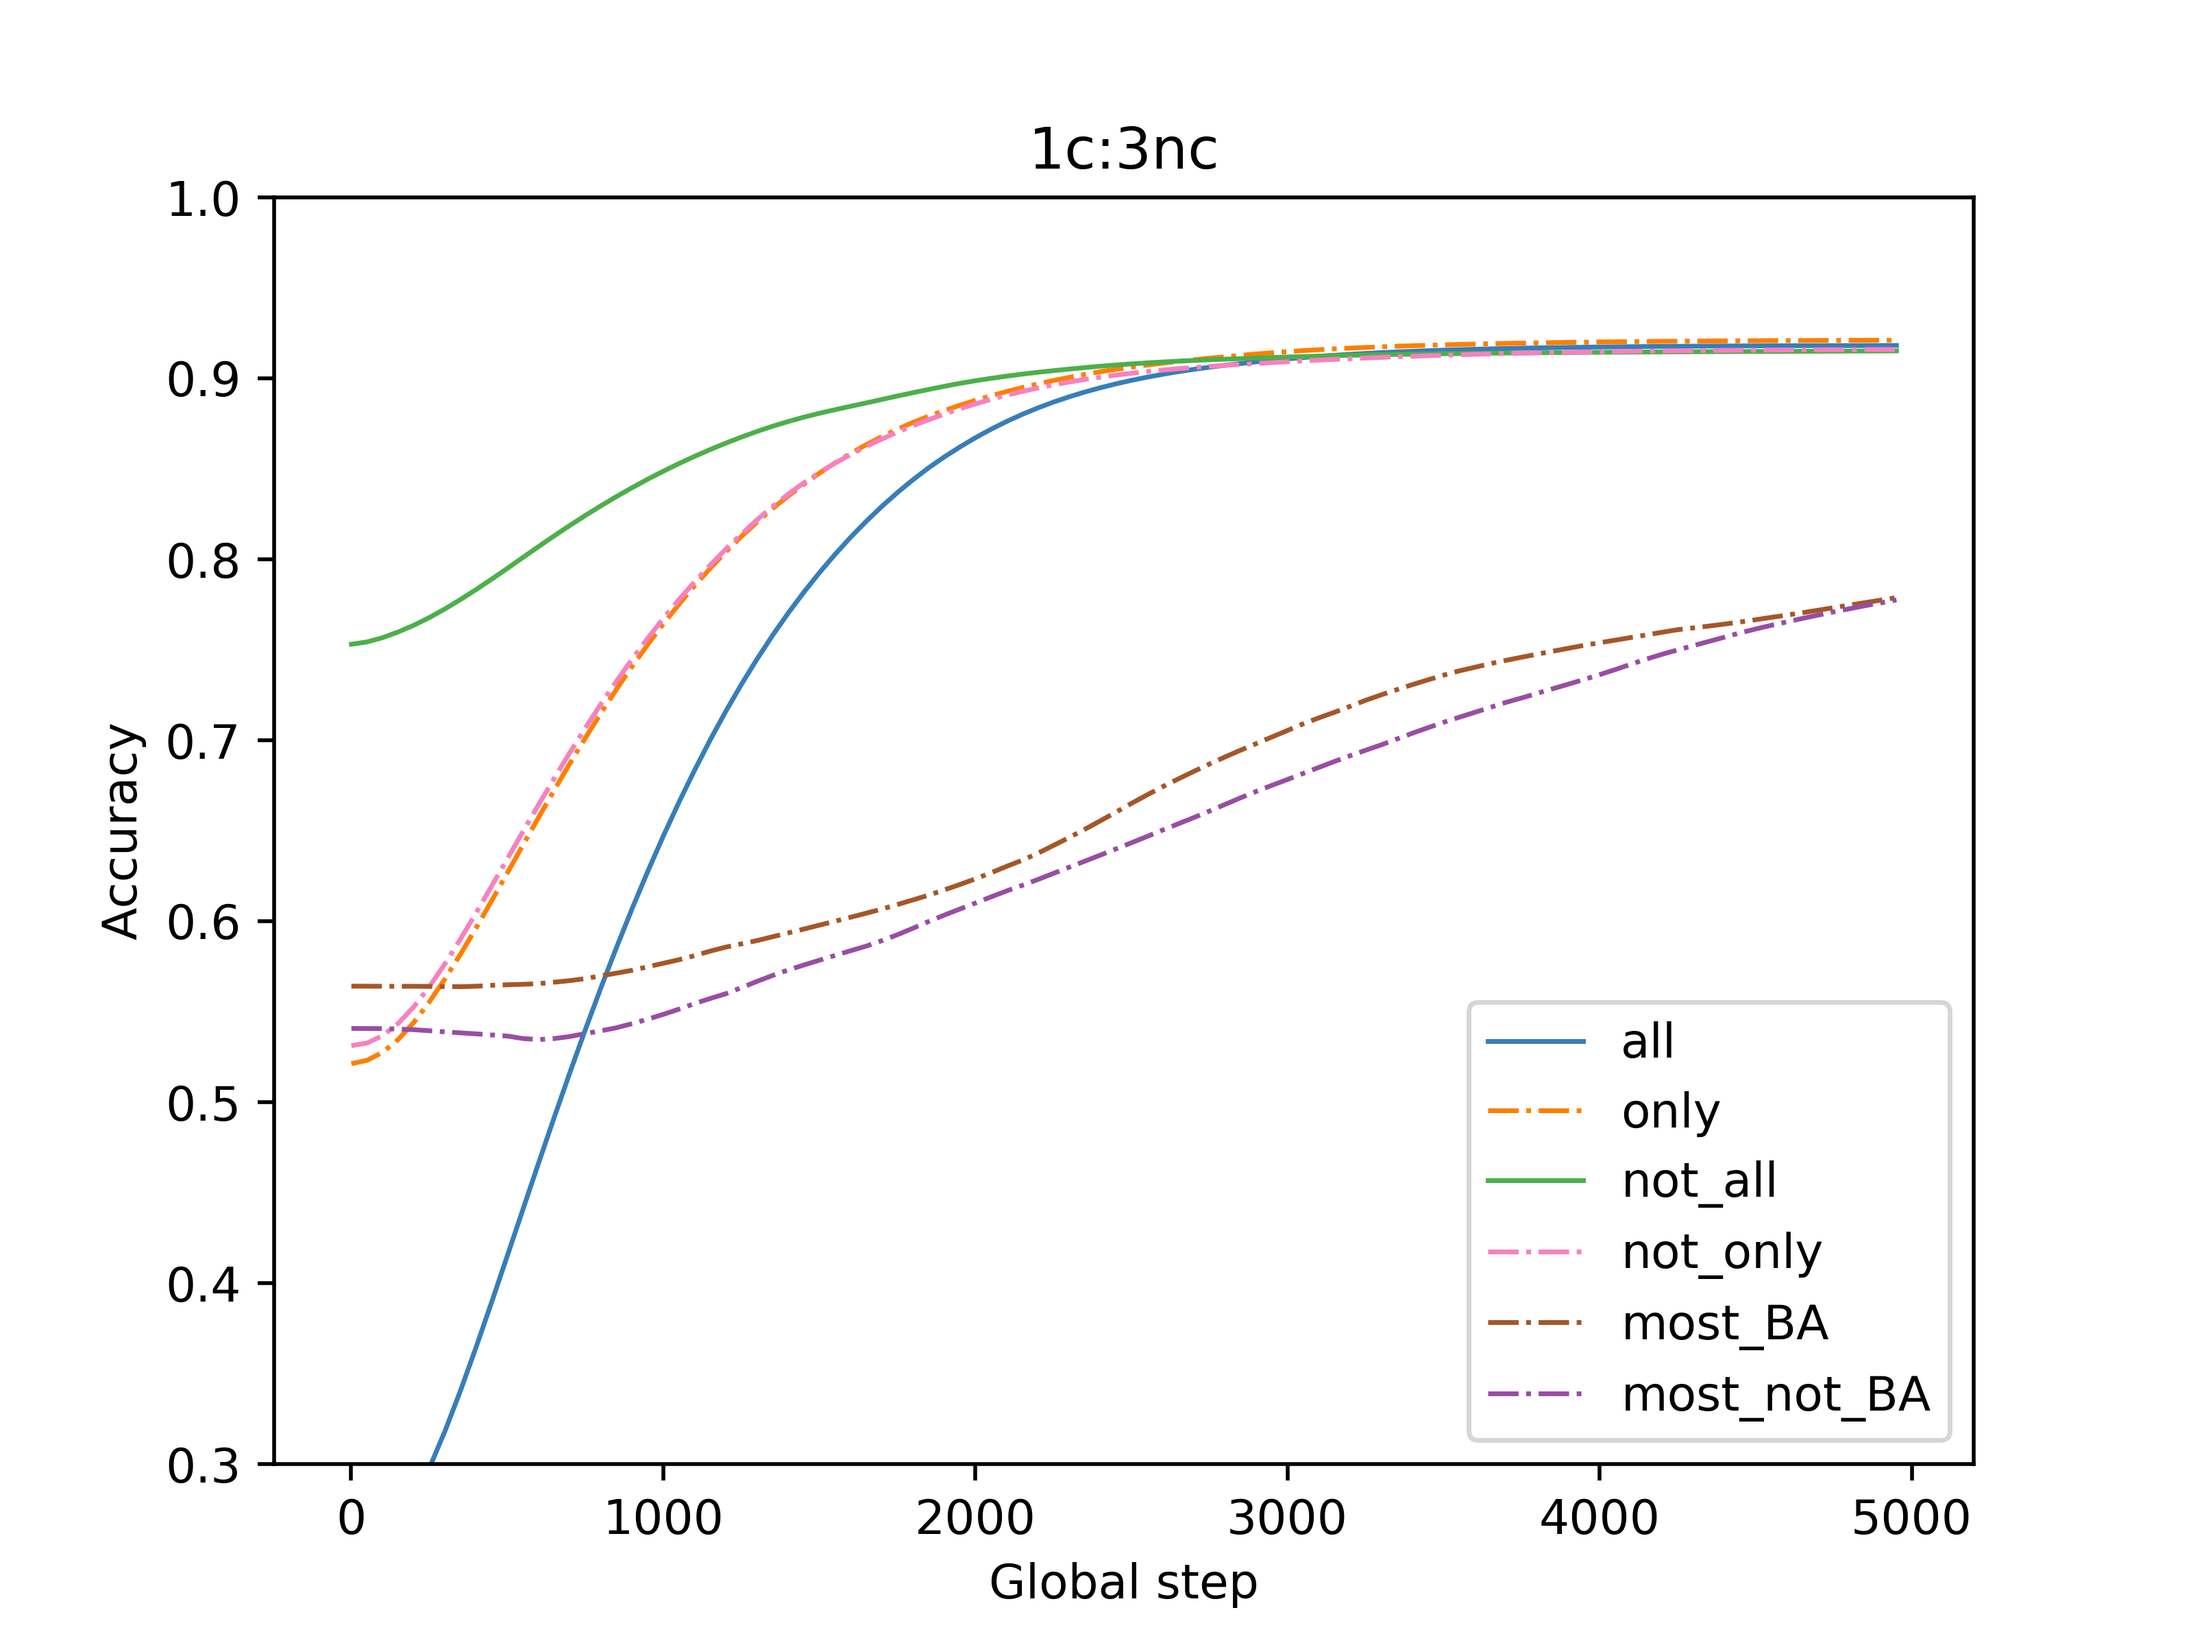
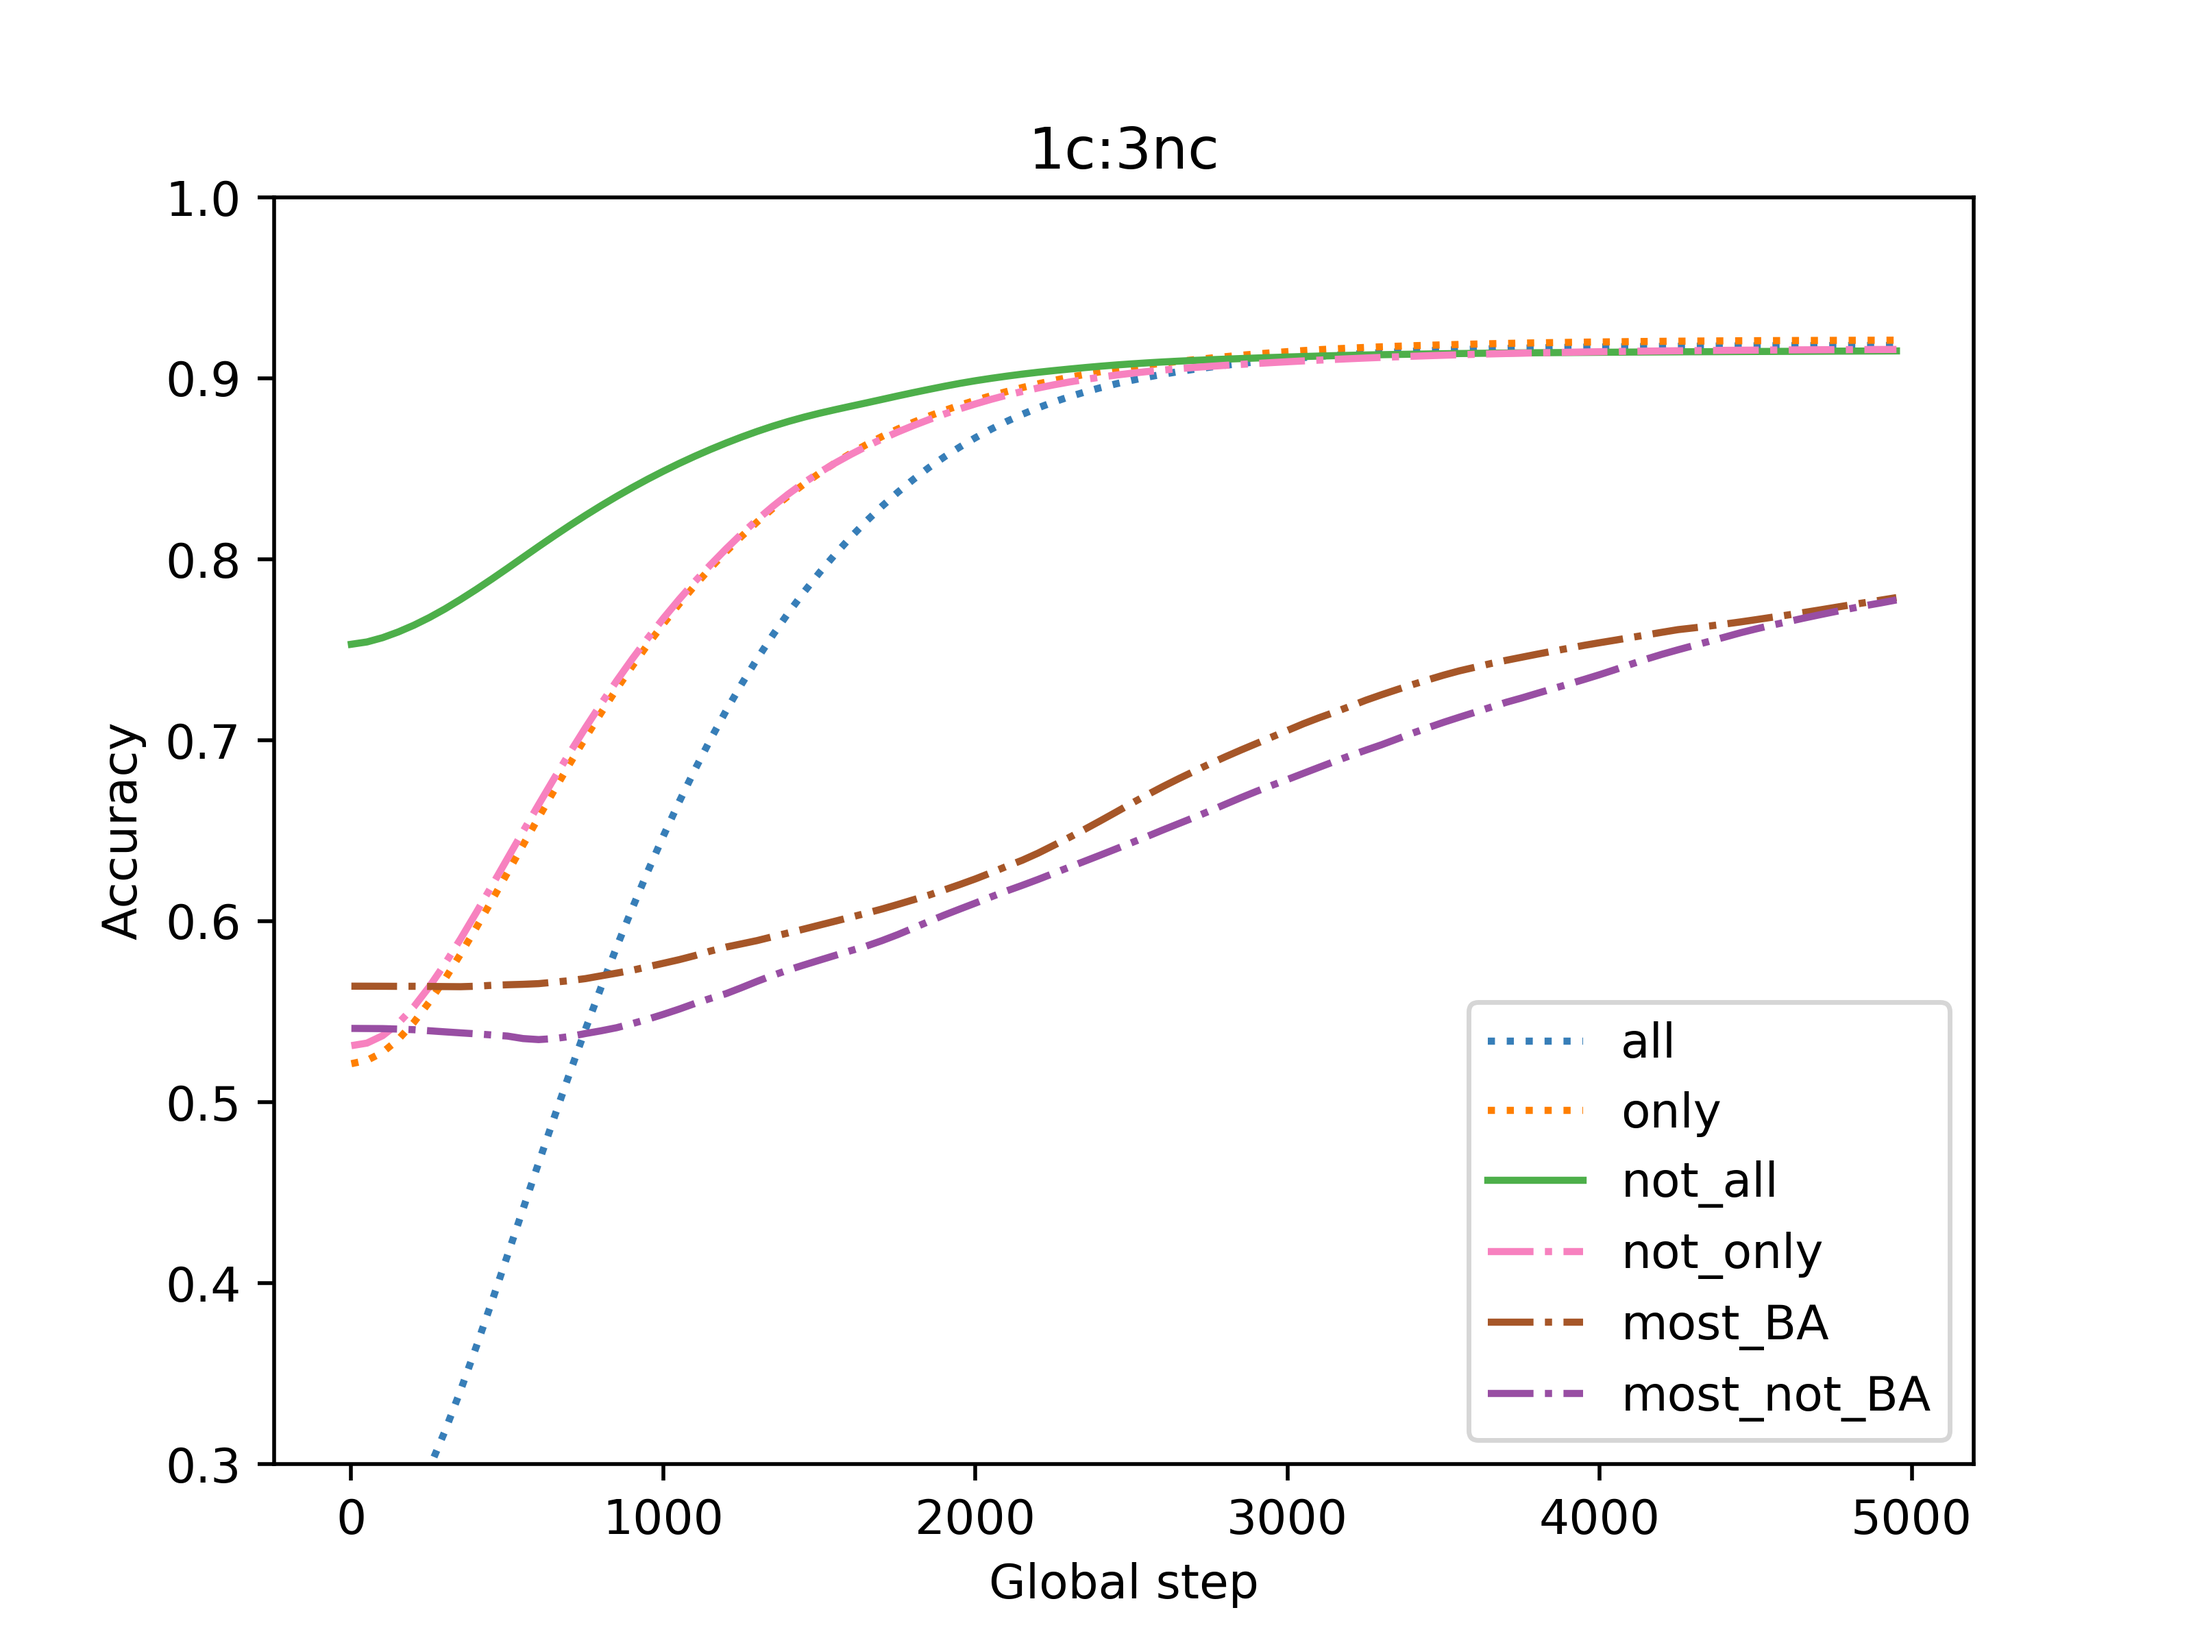
new plots

diff --git a/analysis.py b/analysis.py
@@ -32,19 +32,22 @@ quants_c = ["all", "not_all", "most_AB", "most_not_AB", "exactly_half_AB"]
 # Non-conservative quantifiers
 quants_nc = ["only", "not_only", "most_BA", "most_not_BA", "exactly_half_BA"]
 
+# Test quantifiers
+quants_test = ["all", "only"]
+
 
 def experiment_analysis(path, quants, path_tosave, title, trials=range(30), plots=True):
-    print("Analyzing the experiments!")
     """Prints statistical tests and makes plots for experiment one.
 
     Args:
         path: where the trials in CSV are
         plots: whether to make plots or not
     """
+    print(path.split("/")[-1], path.split("/")[1])
 
     # read the data in
     data = util.read_trials_from_csv(path, trials)
-    print("Data read!")
+    # print("Data read!")
     # FILTER OUT TRIALS WHERE RNN DID NOT LEARN
     remove_bad_trials(data)
     # get convergence points per quantifier
@@ -58,46 +61,47 @@ def experiment_analysis(path, quants, path_tosave, title, trials=range(30), plot
 
     print(stats.ttest_rel(convergence_points[quants[0]],
                           convergence_points[quants[1]]))
+    print()
 
 
 def experiment_one_a_10k_analysis():
-    experiment_analysis("results/10k/exp-1-a", ["all", "only", "not_all", "most_AB", "most_not_AB", "exactly_half_AB"], "./plots_training/10k/4c_0nc_10k.png", "4c:0nc")
+    experiment_analysis("results/10k/exp-1-a", ["all", "only", "not_all", "most_AB", "most_not_AB", "exactly_half_AB"], "plots_training/10k/4c_0nc_10k.png", "4c:0nc")
 
 
 def experiment_one_b_10k_analysis():
-    experiment_analysis("results/10k/exp-1-b", ["all", "only", "not_all", "most_AB", "most_not_AB", "not_only"], "./plots_training/10k/3c_1nc_10k.png", "3c:1nc")
+    experiment_analysis("results/10k/exp-1-b", ["all", "only", "not_all", "most_AB", "most_not_AB", "not_only"], "plots_training/10k/3c_1nc_10k.png", "3c:1nc")
 
 
 def experiment_one_c_10k_analysis():
-    experiment_analysis("results/10k/exp-1-c", ["all", "only", "not_all", "most_AB", "not_only", "most_BA"], "./plots_training/10k/2c_2nc_10k.png", "2c:2nc")
+    experiment_analysis("results/10k/exp-1-c", ["all", "only", "not_all", "most_AB", "not_only", "most_BA"], "plots_training/10k/2c_2nc_10k.png", "2c:2nc")
 
 
 def experiment_one_d_10k_analysis():
-    experiment_analysis("results/10k/exp-1-d", ["all", "only", "not_all", "not_only", "most_BA", "most_not_BA"], "./plots_training/10k/1c_3nc_10k.png", "1c:3nc")
+    experiment_analysis("results/10k/exp-1-d", ["all", "only", "not_all", "not_only", "most_BA", "most_not_BA"], "plots_training/10k/1c_3nc_10k.png", "1c:3nc")
 
 
 def experiment_one_e_10k_analysis():
-    experiment_analysis("results/10k/exp-1-e", ["all", "only", "not_only", "most_BA", "most_not_BA", "exactly_half_BA"], "./plots_training/10k/0c_4nc_10k.png", "0c:4nc")
+    experiment_analysis("results/10k/exp-1-e", ["all", "only", "not_only", "most_BA", "most_not_BA", "exactly_half_BA"], "plots_training/10k/0c_4nc_10k.png", "0c:4nc")
 
 
 def experiment_one_a_30k_analysis():
-    experiment_analysis("results/30k/exp-1-a", ["all", "only", "not_all", "most_AB", "most_not_AB", "exactly_half_AB"], "./plots_training/30k/4c_0nc_30k.png", "4c:0nc")
+    experiment_analysis("results/30k/exp-1-a", ["all", "only", "not_all", "most_AB", "most_not_AB", "exactly_half_AB"], "plots_training/30k/4c_0nc_30k.png", "4c:0nc")
 
 
 def experiment_one_b_30k_analysis():
-    experiment_analysis("results/30k/exp-1-b", ["all", "only", "not_all", "most_AB", "most_not_AB", "not_only"], "./plots_training/30k/3c_1nc_30k.png", "3c:1nc")
+    experiment_analysis("results/30k/exp-1-b", ["all", "only", "not_all", "most_AB", "most_not_AB", "not_only"], "plots_training/30k/3c_1nc_30k.png", "3c:1nc")
 
 
 def experiment_one_c_30k_analysis():
-    experiment_analysis("results/30k/exp-1-c", ["all", "only", "not_all", "most_AB", "not_only", "most_BA"], "./plots_training/30k/2c_2nc_30k.png", "2c:2nc")
+    experiment_analysis("results/30k/exp-1-c", ["all", "only", "not_all", "most_AB", "not_only", "most_BA"], "plots_training/30k/2c_2nc_30k.png", "2c:2nc")
 
 
 def experiment_one_d_30k_analysis():
-    experiment_analysis("results/30k/exp-1-d", ["all", "only", "not_all", "not_only", "most_BA", "most_not_BA"], "./plots_training/30k/1c_3nc_30k.png", "1c:3nc")
+    experiment_analysis("results/30k/exp-1-d", ["all", "only", "not_all", "not_only", "most_BA", "most_not_BA"], "plots_training/30k/1c_3nc_30k.png", "1c:3nc")
 
 
 def experiment_one_e_30k_analysis():
-    experiment_analysis("results/30k/exp-1-e", ["all", "only", "not_only", "most_BA", "most_not_BA", "exactly_half_BA"], "./plots_training/30k/0c_4nc_30k.png", "0c:4nc")
+    experiment_analysis("results/30k/exp-1-e", ["all", "only", "not_only", "most_BA", "most_not_BA", "exactly_half_BA"], "plots_training/30k/0c_4nc_30k.png", "0c:4nc")
 
 
 def remove_bad_trials(data, threshold=0.60):
@@ -232,14 +236,15 @@ def make_plot(data, quants, path_tosave, title, ylim=None, threshold=0.95):
     """
     assert len(quants) <= len(COLORS)
 
+    """
+    Plot training
+    """
+    print("Generating plot: {0}".format(path_tosave))
     trials_by_quant = [[] for _ in range(len(quants))]
     for trial in data.keys():
-        # steps = data[trial]["global_step"].values
         for idx in range(len(quants)):
             trials_by_quant[idx].append(smooth_data(
                 data[trial][quants[idx] + "_accuracy"].values))
-            # plt.plot(steps, trials_by_quant[idx][-1],
-            # COLORS[idx], alpha=0.3)
 
     # plot median lines
     medians_by_quant = [get_median_diff_lengths(trials_by_quant[idx])
@@ -248,23 +253,32 @@ def make_plot(data, quants, path_tosave, title, ylim=None, threshold=0.95):
     longest_x = get_max_steps(data)
     for idx in range(len(quants)):
 
-        # Linestyle
-        if quants[idx] in quants_c:
+        # C style
+        if quants[idx] in quants_c[1:]:
             lines = "-"
-        if quants[idx] in quants_nc:
+            color = COLORS[idx]
+        # NC style
+        if quants[idx] in quants_nc[1:]:
             lines = "-."
+            color = COLORS[idx]
+        # Test style
+        if quants[idx] == "all":
+            lines = ":"
+            color = "#377eb8"
+        if quants[idx] == "only":
+            lines = ":"
+            color = "#ff7f00"
 
         plt.plot(longest_x,
                  smooth_data(medians_by_quant[idx]),
-                 COLORS[idx],
+                 color,
                  label=quants[idx],
-                 linewidth=1,
+                 linewidth=1.5,
                  linestyle=lines)
 
     # max_x = max([len(ls) for ls in medians_by_quant])
     # plt.plot(longest_x, [threshold for _ in range(max_x)],
-    # linestyle="dashed", color="green")
-
+    #          linestyle="dashed", color="#4daf4a")
     if ylim:
         plt.ylim(ylim)
     plt.title(title)
@@ -272,7 +286,40 @@ def make_plot(data, quants, path_tosave, title, ylim=None, threshold=0.95):
     plt.xlabel("Global step")
     plt.ylabel("Accuracy")
     plt.savefig(path_tosave, dpi=500)
-    # plt.show()
+    plt.close()
+
+    """
+    Plot testing
+    """
+    # First 2 are test quantifiers
+    quants = quants[:2]
+    colors = ["#377eb8", "#e41a1c"]
+
+    # Change output file path
+    path_tosave = "plots_testing/" + "/".join(path_tosave.split("/")[1:])
+    print("Generating plot: {0}".format(path_tosave))
+
+    trials_by_quant = [[] for _ in range(len(quants))]
+    for i, trial in enumerate(data.keys()):
+        steps = data[trial]["global_step"].values
+        for idx in range(len(quants)):
+            trials_by_quant[idx].append(
+                smooth_data(data[trial][quants[idx] + "_accuracy"].values)
+            )
+            plt.plot(
+                steps,
+                trials_by_quant[idx][-1],
+                colors[idx],
+                label=quants[idx] if i == 0 else "",
+                alpha=0.4,
+                linewidth=1,
+            )
+    plt.title(title)
+    plt.legend(loc=4)
+    plt.xlabel("Global step")
+    plt.ylabel("Accuracy")
+    plt.savefig(path_tosave, dpi=500)
+    plt.close()
 
 
 def get_median_diff_lengths(trials):
@@ -296,50 +343,50 @@ def get_median_diff_lengths(trials):
     return np.nanmedian(trials, axis=0)
 
 
-def make_boxplots(convergence_points, quants):
-    """Makes box plots of some data.
+# def make_boxplots(convergence_points, quants):
+#     """Makes box plots of some data.
 
-    Args:
-        convergence_points: dictionary of quantifier convergence points
-        quants: names of quantifiers
-    """
-    plt.boxplot([convergence_points[quant] for quant in quants])
-    plt.xticks(range(1, len(quants) + 1), quants)
-    plt.show()
+#     Args:
+#         convergence_points: dictionary of quantifier convergence points
+#         quants: names of quantifiers
+#     """
+#     plt.boxplot([convergence_points[quant] for quant in quants])
+#     plt.xticks(range(1, len(quants) + 1), quants)
+#     plt.show()
 
 
-def make_barplots(convergence_points, quants):
-    """Makes bar plots, with confidence intervals, of some data.
+# def make_barplots(convergence_points, quants):
+#     """Makes bar plots, with confidence intervals, of some data.
 
-    Args:
-        convergence_points: dictionary of quantifier convergence points
-        quants: names of quantifiers
-    """
-    pairs = list(it.combinations(quants, 2))
-    assert len(pairs) <= len(COLORS)
+#     Args:
+#         convergence_points: dictionary of quantifier convergence points
+#         quants: names of quantifiers
+#     """
+#     pairs = list(it.combinations(quants, 2))
+#     assert len(pairs) <= len(COLORS)
 
-    diffs = {pair: diff(convergence_points[pair[0]],
-                        convergence_points[pair[1]])
-             for pair in pairs}
-    means = {pair: np.mean(diffs[pair]) for pair in pairs}
-    stds = {pair: np.std(diffs[pair]) for pair in pairs}
-    intervals = {pair: stats.norm.interval(
-        0.95, loc=means[pair],
-        scale=stds[pair] / np.sqrt(len(diffs[pair])))
-        for pair in pairs}
+#     diffs = {pair: diff(convergence_points[pair[0]],
+#                         convergence_points[pair[1]])
+#              for pair in pairs}
+#     means = {pair: np.mean(diffs[pair]) for pair in pairs}
+#     stds = {pair: np.std(diffs[pair]) for pair in pairs}
+#     intervals = {pair: stats.norm.interval(
+#         0.95, loc=means[pair],
+#         scale=stds[pair] / np.sqrt(len(diffs[pair])))
+#         for pair in pairs}
 
-    # plotting info
-    index = np.arange(len(pairs))
-    bar_width = 0.75
-    # reshape intervals to be fed to pyplot
-    yerrs = [[means[pair] - intervals[pair][0] for pair in pairs],
-             [intervals[pair][1] - means[pair] for pair in pairs]]
+#     # plotting info
+#     index = np.arange(len(pairs))
+#     bar_width = 0.75
+#     # reshape intervals to be fed to pyplot
+#     yerrs = [[means[pair] - intervals[pair][0] for pair in pairs],
+#              [intervals[pair][1] - means[pair] for pair in pairs]]
 
-    plt.bar(index, [means[pair] for pair in pairs], bar_width, yerr=yerrs,
-            color=[COLORS[idx] for idx in range(len(pairs))],
-            ecolor="black", align="center")
-    plt.xticks(index, pairs)
-    # plt.show()
+#     plt.bar(index, [means[pair] for pair in pairs], bar_width, yerr=yerrs,
+#             color=[COLORS[idx] for idx in range(len(pairs))],
+#             ecolor="black", align="center")
+#     plt.xticks(index, pairs)
+#     plt.show()
 
 
 def smooth_data(data, smooth_weight=0.9):
@@ -380,4 +427,3 @@ if __name__ == "__main__":
 
     func = func_map[args.exp]
     func()
-    # experiment_one_e_10k_analysis()

diff --git a/util.py b/util.py
@@ -83,8 +83,11 @@ def read_trials_from_csv(path, trials):
     """
     data = {}
     for trial in trials:
-        data[trial] = pd.DataFrame.from_csv(
-            '{}/trial_{}.csv'.format(path, trial))
+        data[trial] = pd.read_csv(
+            '{}/trial_{}.csv'.format(path, trial),
+            index_col=0,
+            parse_dates=True,
+        )
     return data
 
 
